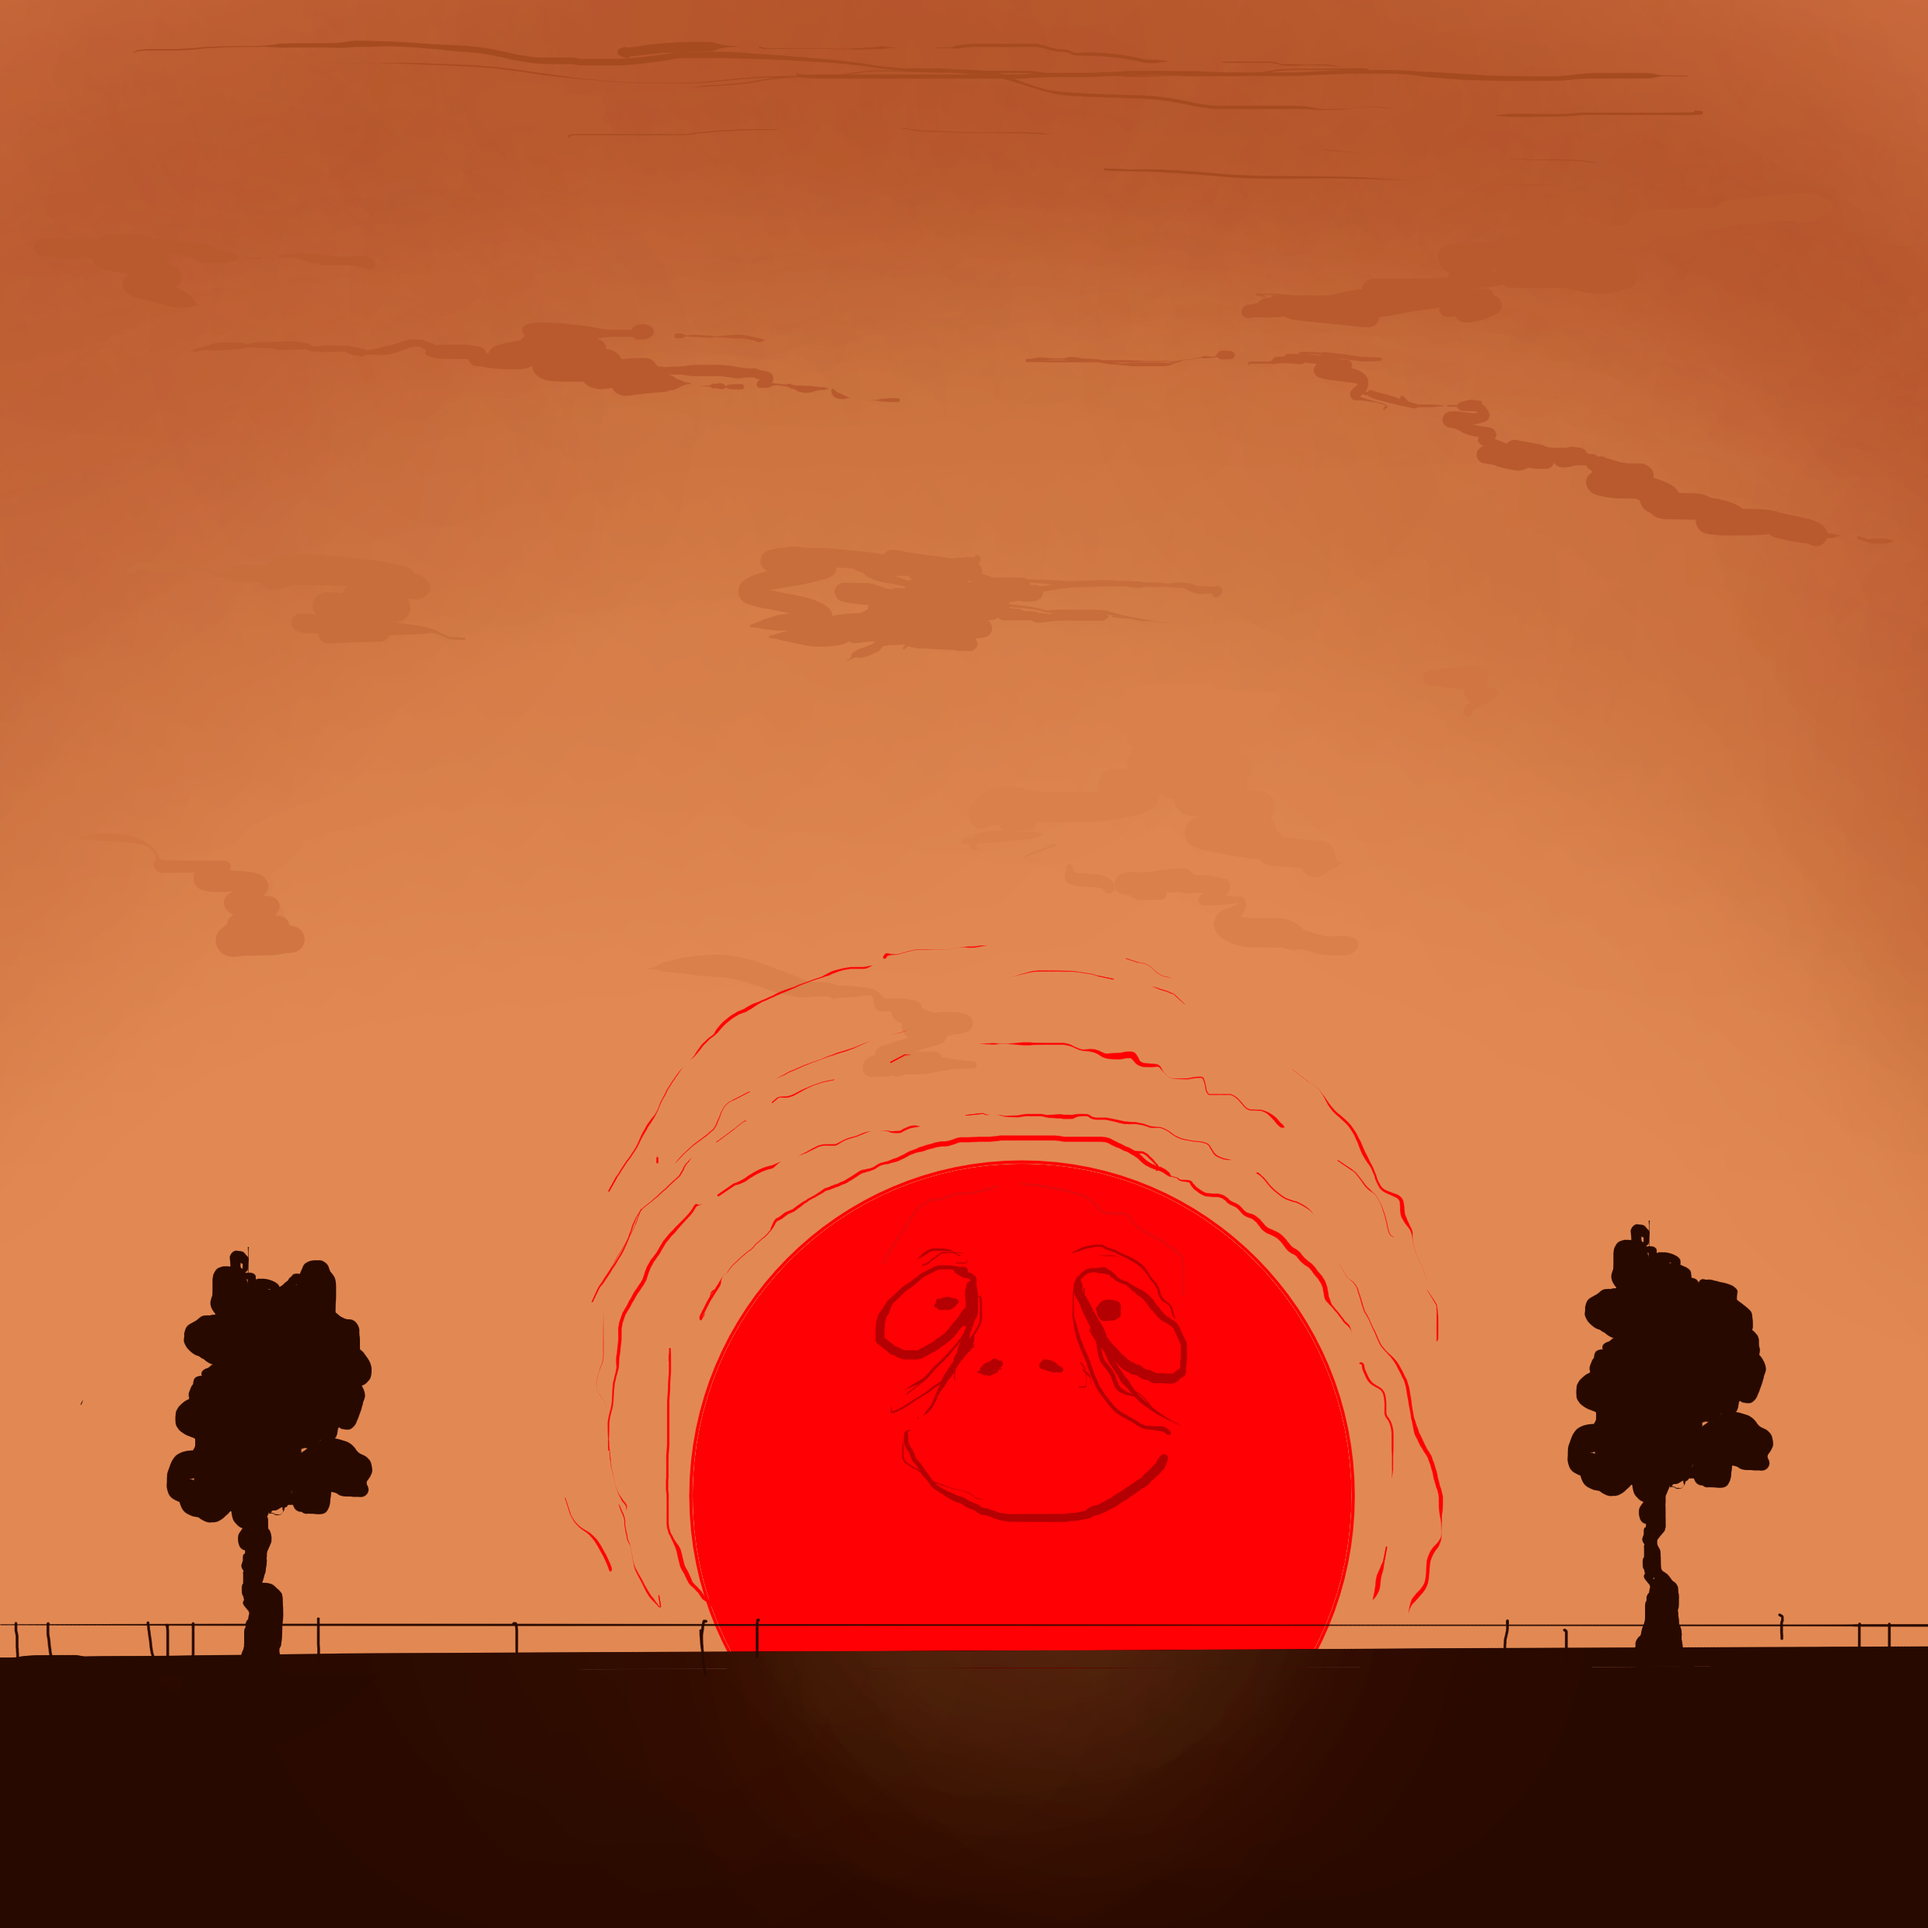
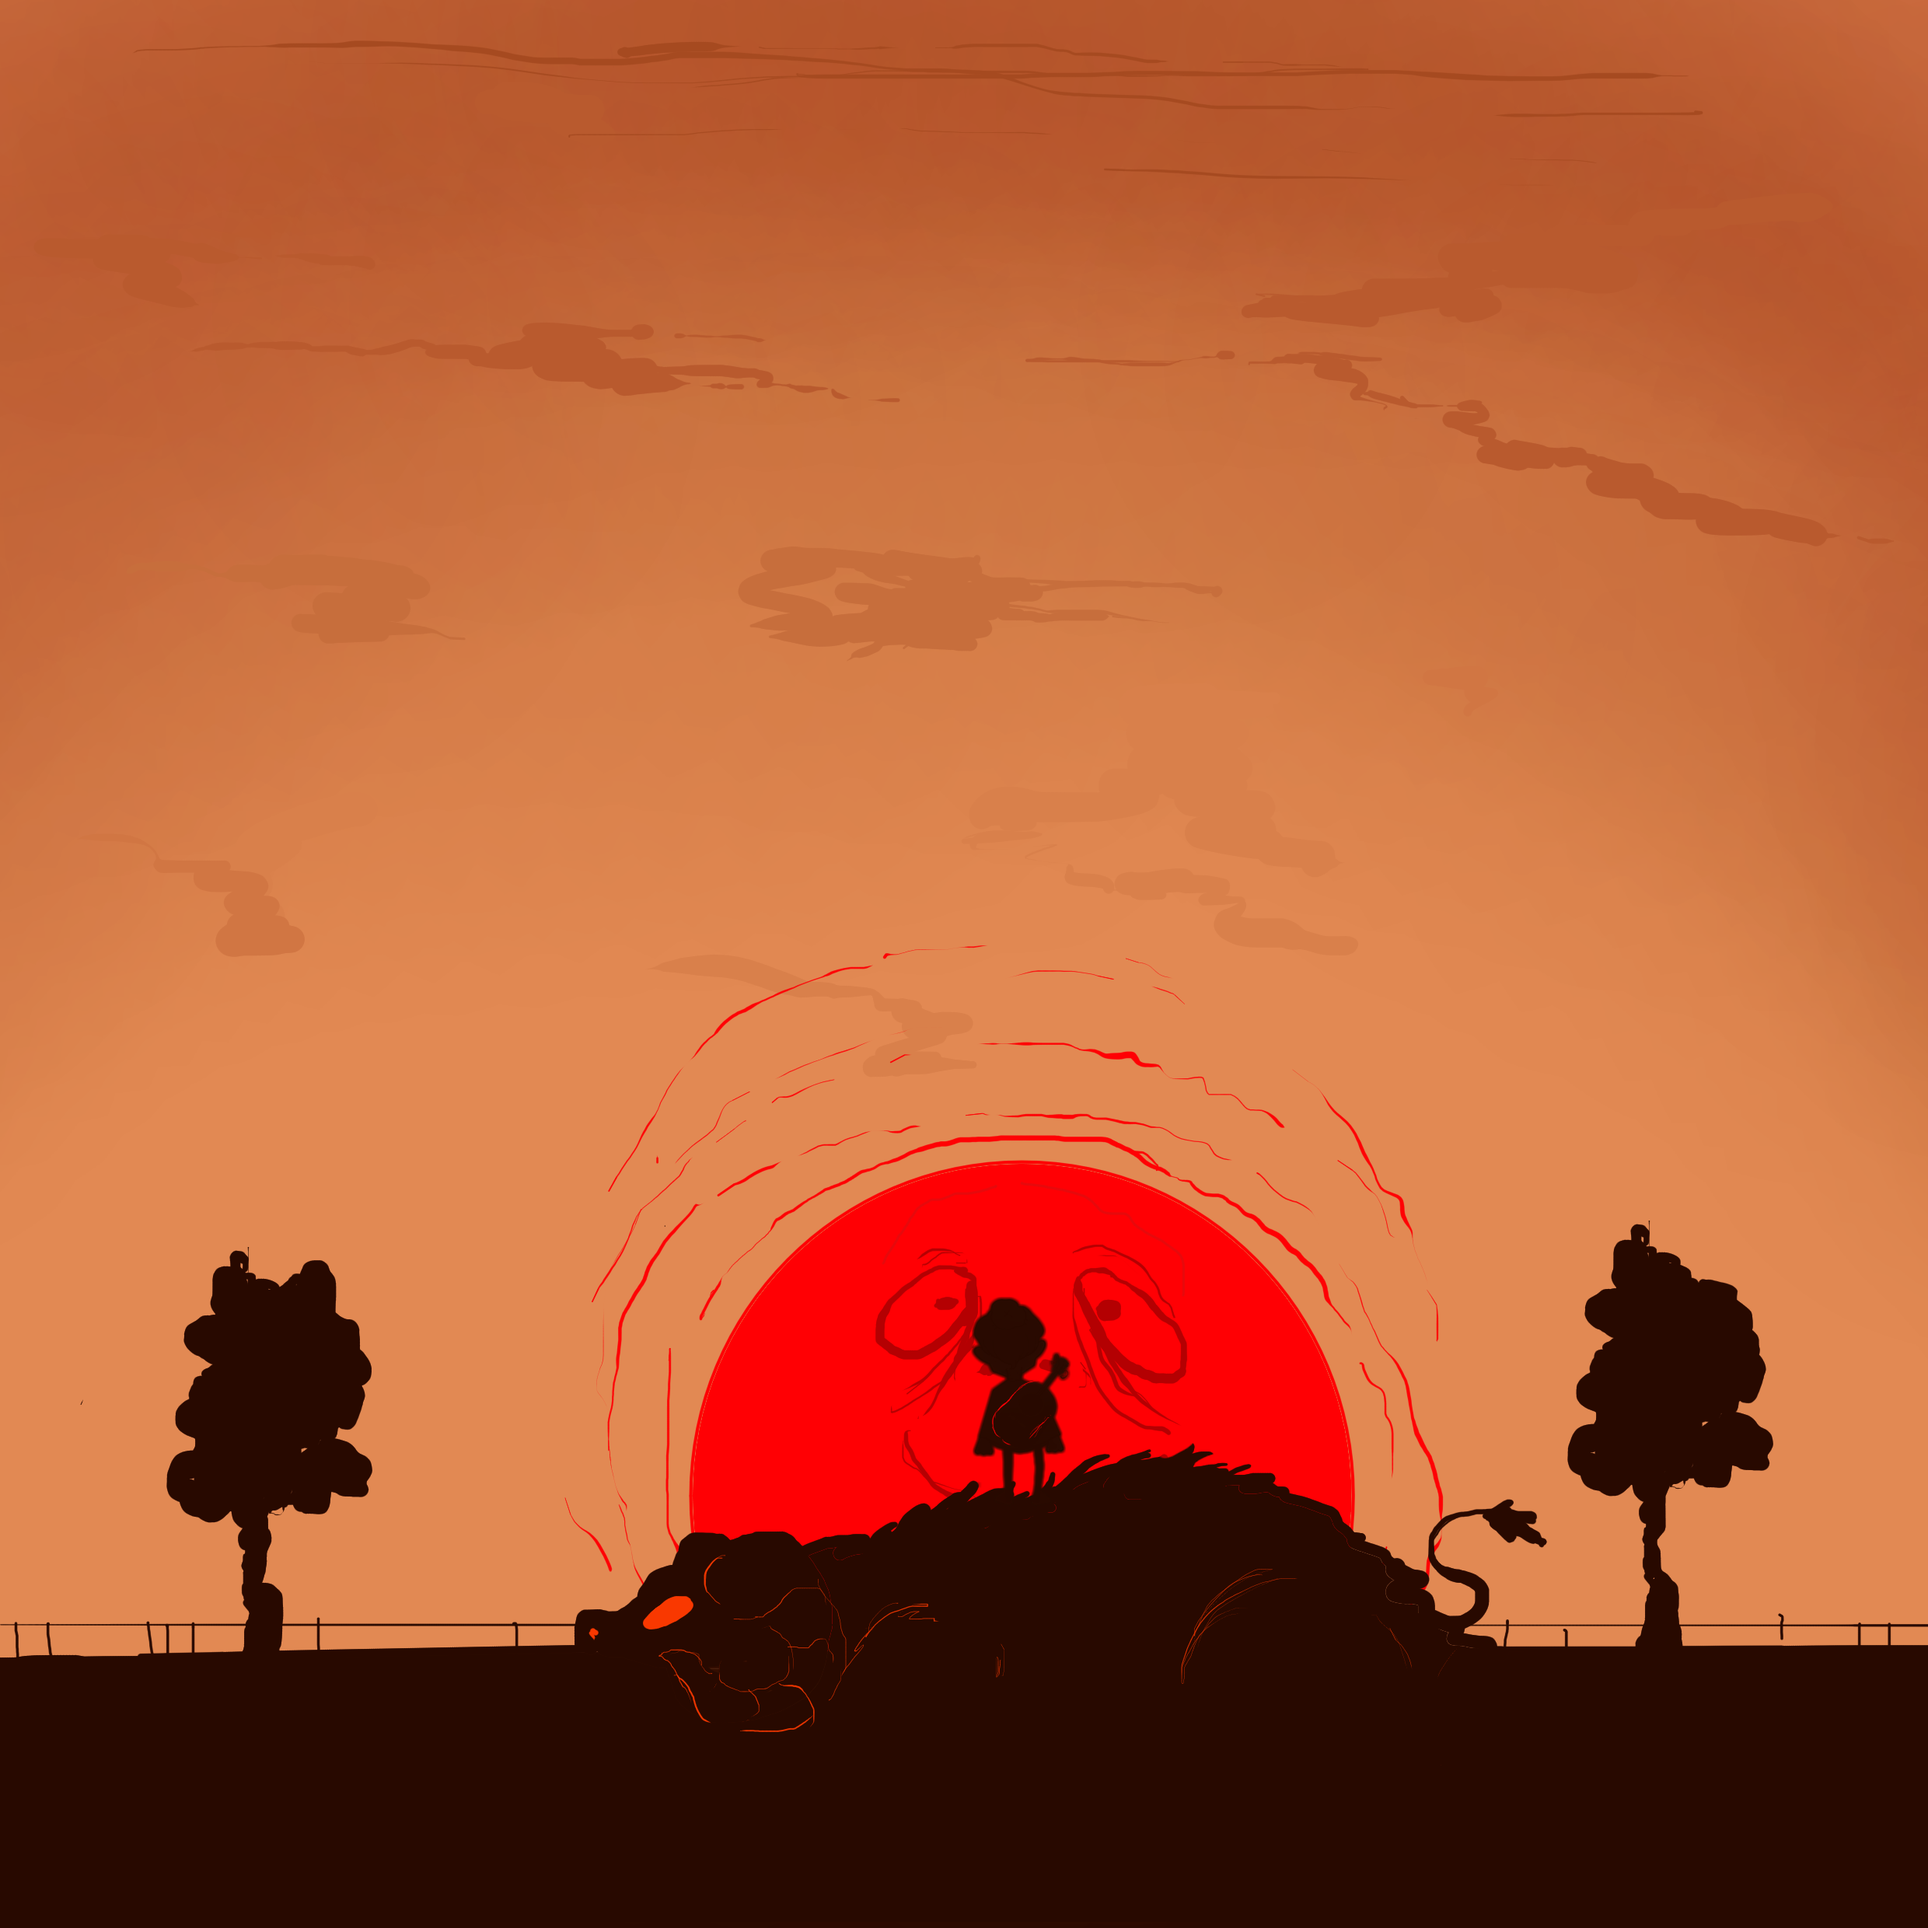
Бета версия игры

Changed region(s): [[0.2173, 0.652, 0.8073, 0.9315]]

diff --git a/main.py b/main.py
@@ -62,14 +62,20 @@ def main_menu():
 def rules_menu():
     global running, menu_running, rules_running, screen, WIDTH, HEIGHT
     intro_text = ['Правила игры']
-    rules_text = ['- Ваша задача - убить как можно больше призраков',
-                  '- Если вы сталкиваетесь с призраком, ваше здоровье падает',
-                  '- Используйте WASD для передвижения по полю',
-                  '- Используйте пробел для стрельбы',
-                  '- Используйте курсор для задания направления стрельбы']
+    rules_text = ['- Привет! Слышал эту городскую легенду про демона перекрёстка? Нет?!',
+                  '- Недалеко от города есть закрытое шоссе с подозрительным перекрёстком.',
+                  '- Говорят, там люди пропадают. Ну, знаешь, нечисть всякая бесится... ',
+                  '- Так вот, не поможешь мне разобраться с этой чертовщиной? Ты в деле? Супер!',
+                  '- Используй WASD для управления. Можешь стрелять по врагам с помощью пробела,',
+                  '- а в качестве прицела используй курсор... А, и ещё.',
+                  '- Если тебе повезёт увидеть демона перекрёстка, не дай ему себя схватить',
+                  '- и стреляй ему в голову. Патроны и аптечки иногда будут появляться на локации.',
+                  '- На этом всё! Удачи!']
     main_text = ['В главное меню']
     fon = pygame.transform.scale(load_image('main_back.png'), (WIDTH, HEIGHT))
     screen.blit(fon, (0, 0))
+    screen.blit(pygame.transform.scale(load_image("Dialog.png"), (WIDTH-6, HEIGHT//2+50)), (3, 20))
+    screen.blit(pygame.transform.scale(load_image("martin.png"), (300, 400)), (WIDTH-250, HEIGHT//2+40))
     font = pygame.font.SysFont('verdana', 35)
     text_coord = 30
     for line in intro_text:
@@ -81,6 +87,7 @@ def rules_menu():
         text_coord += intro_rect.height
         screen.blit(string_rendered, intro_rect)
     font = pygame.font.SysFont('verdana', 17)
+    text_coord += 10
     for line in rules_text:
         string_rendered = font.render(line, 1, (255, 255, 255))
         intro_rect = string_rendered.get_rect()
@@ -89,6 +96,7 @@ def rules_menu():
         intro_rect.x = 10
         text_coord += intro_rect.height
         screen.blit(string_rendered, intro_rect)
+    text_coord += 20
     font = pygame.font.SysFont('verdana', 20)
     for line in main_text:
         string_rendered = font.render(line, 1, (255, 255, 255))
@@ -195,7 +203,6 @@ def main_cycle():
 
 def game_over():
     global running, menu_running, lost_running, screen, WIDTH, HEIGHT, result
-    clear_sprites()
     if result:
         intro_text = ['!ПОБЕДА!']
         fon = pygame.transform.scale(load_image('win_back.png'), (WIDTH, HEIGHT))
@@ -224,6 +231,7 @@ def game_over():
         intro_rect.centerx = WIDTH // 2
         text_coord += intro_rect.height
         screen.blit(string_rendered, intro_rect)
+    clear_sprites()
 
     while lost_running:
         for event in pygame.event.get():
@@ -319,7 +327,7 @@ def bossfight():
             pygame.mixer.music.load('music/loosetheme.mp3')
             pygame.mixer.music.set_volume(0.4)
             pygame.mixer.music.play(loops=-1)
-        if timer//10:
+        if timer // 10:
             m = Bullet(bulletimage, random.randrange(0, WIDTH), 0, 0, 1)
             all_sprites.add(m)
             bad_bullets.add(m)
@@ -345,7 +353,9 @@ def bossfight():
 
 
 def clear_sprites():
-    global all_sprites, mobs, bullets, player
+    global all_sprites, mobs, bullets, player, curscore, result
+    result = False
+    curscore = 0
     all_sprites = pygame.sprite.Group()
     mobs = pygame.sprite.Group()
     bullets = pygame.sprite.Group()
@@ -366,6 +376,7 @@ screen = pygame.display.set_mode((WIDTH, HEIGHT))
 toplayer = pygame.display.set_mode((WIDTH, HEIGHT))
 toplayer.set_alpha(255)
 pygame.display.set_caption("Legend of Crossroads")
+pygame.display.set_icon(pygame.image.load("img/Crossroads.png"))
 clock = pygame.time.Clock()
 
 bgimg = pygame.transform.scale(load_image("bg.png"), (WIDTH, HEIGHT))
